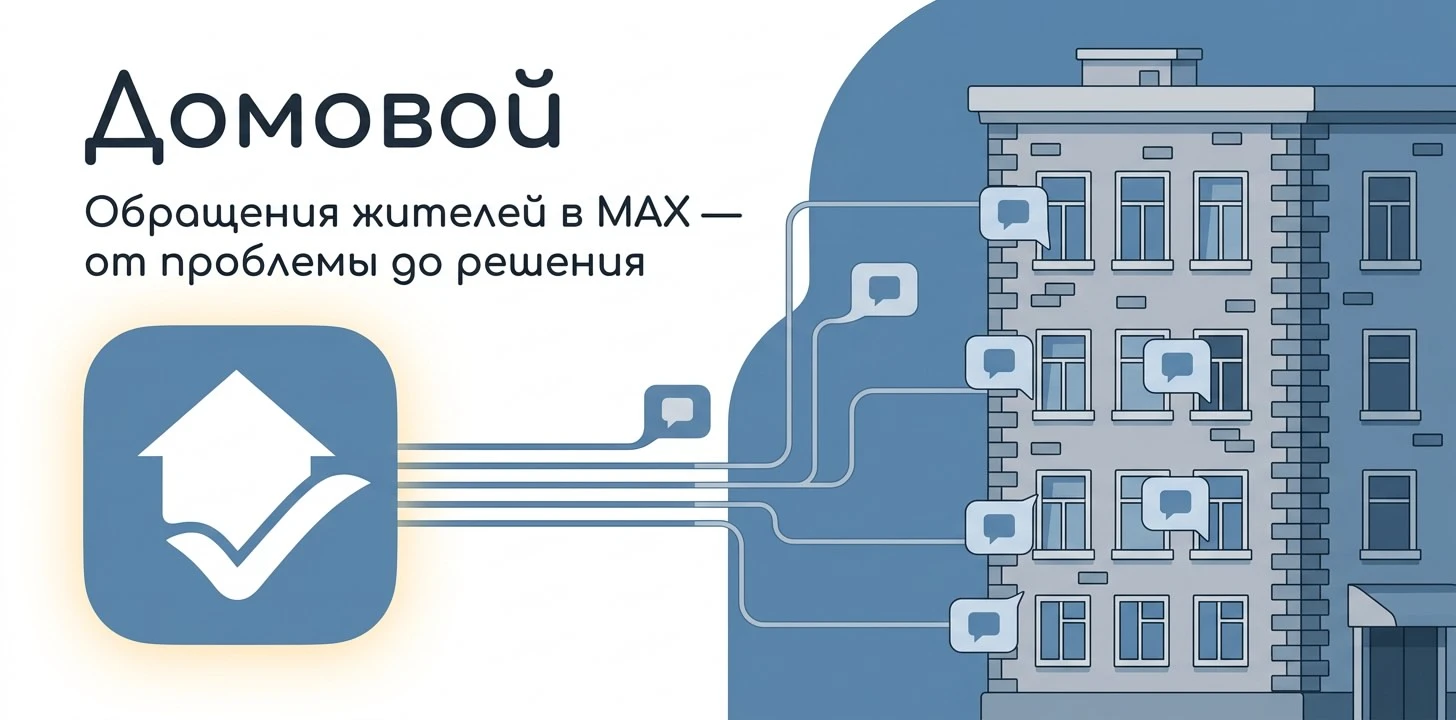
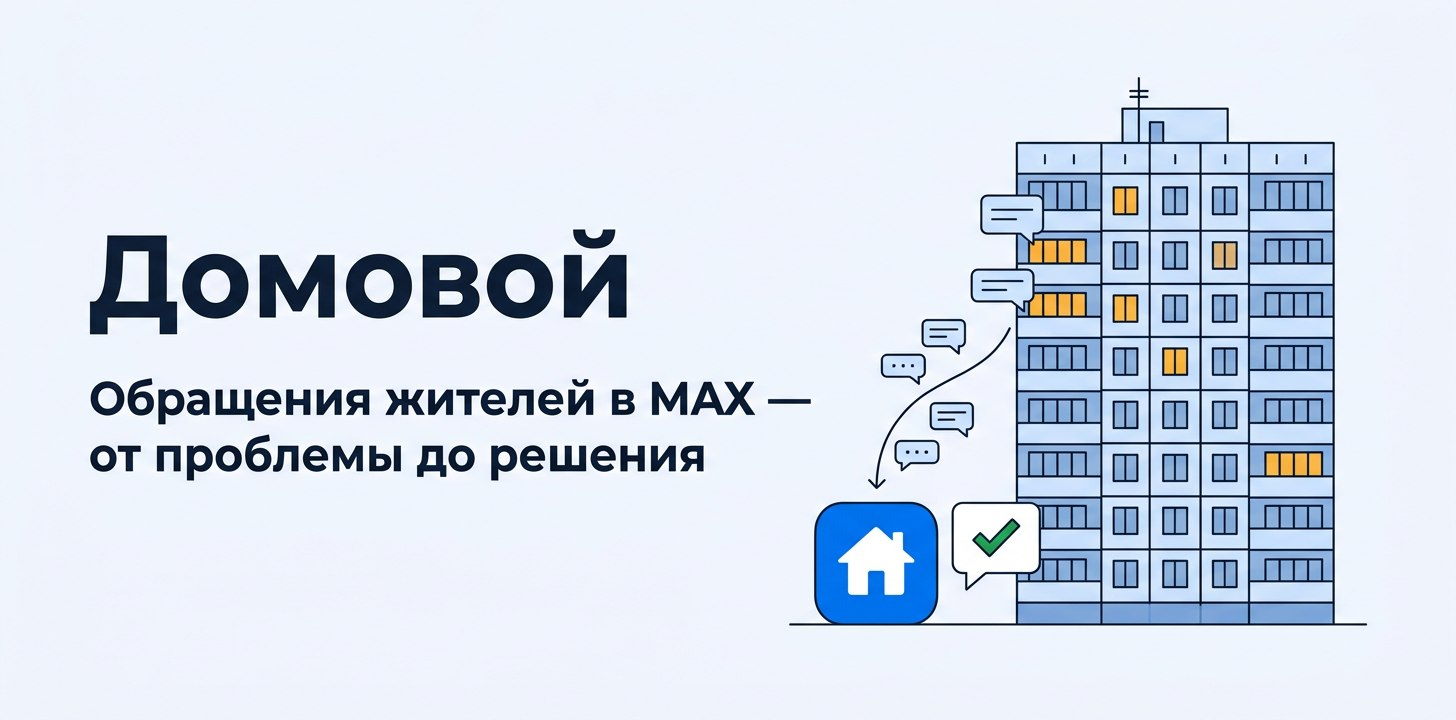
Подготовка к сдаче: актуальные README, OpenAPI, DATA-API и Docker
- README: вход через ЕСИА, новый сценарий бота, ESIA_PASSWORD, новые обложки
- openapi.json перегенерирован из кода, DATA-API.yaml: house_id прода и проверки входа
- docker-compose: убран общий тег образа, из-за него падала сборка без кэша
- ESIA_PASSWORD без значения по умолчанию, удалён отладочный clear_db.py
- презентация: источники на последнем слайде, правки слайдов 10, 13, 19

diff --git a/presentation/10-ai.html b/presentation/10-ai.html
@@ -49,7 +49,7 @@ section{flex:none;transform-origin:center center}</style></head>
 <p style="font-size:30px; font-weight:700">Что ещё делает ИИ</p>
 <p style="display:flex; align-items:center; gap:14px; font-size:26px; line-height:1.3"><svg viewBox="0 0 24 24" fill="none" stroke="#006bf1" stroke-width="3" stroke-linecap="round" stroke-linejoin="round" style="width:26px;height:26px;flex:none"><path d="M5 12.5l4.5 4.5L19 7.5"/></svg>Отсеивает бессвязные сообщения</p>
 <p style="display:flex; align-items:center; gap:14px; font-size:26px; line-height:1.3"><svg viewBox="0 0 24 24" fill="none" stroke="#006bf1" stroke-width="3" stroke-linecap="round" stroke-linejoin="round" style="width:26px;height:26px;flex:none"><path d="M5 12.5l4.5 4.5L19 7.5"/></svg>Понимает ответ УК и меняет статус</p>
-<p style="display:flex; align-items:center; gap:14px; font-size:26px; line-height:1.3"><svg viewBox="0 0 24 24" fill="none" stroke="#006bf1" stroke-width="3" stroke-linecap="round" stroke-linejoin="round" style="width:26px;height:26px;flex:none"><path d="M5 12.5l4.5 4.5L19 7.5"/></svg>Сверяет уточнение жителя с вопросом УК</p>
+<p style="display:flex; align-items:center; gap:14px; font-size:26px; line-height:1.3"><svg viewBox="0 0 24 24" fill="none" stroke="#006bf1" stroke-width="3" stroke-linecap="round" stroke-linejoin="round" style="width:26px;height:26px;flex:none"><path d="M5 12.5l4.5 4.5L19 7.5"/></svg>Даёт обращению короткое понятное название</p>
 </div>
 </div>
 <p style="position:absolute; right:128px; bottom:64px; width:200px; font-size:24px; color:#4a586b; text-align:right">10</p>

diff --git a/presentation/19-risks.html b/presentation/19-risks.html
@@ -16,7 +16,7 @@ section{flex:none;transform-origin:center center}</style></head>
   <path d="m21.73 18-8-14a2 2 0 0 0-3.48 0l-8 14A2 2 0 0 0 4 21h16a2 2 0 0 0 1.73-3" />
   <path d="M12 9v4" />
   <path d="M12 17h.01" />
-</svg></div><p style="flex:1; font-size:24px; font-weight:700; line-height:1.3">ИИ ошибётся с ответственным или сроком</p><p style="flex:1.3; font-size:24px; line-height:1.3; color:#4a586b">Результат виден жителю сразу, УК получает исходный текст, срок задан правилом</p></div>
+</svg></div><p style="flex:1; font-size:24px; font-weight:700; line-height:1.3">ИИ ошибётся с ответственным или сроком</p><p style="flex:1.3; font-size:24px; line-height:1.3; color:#4a586b">Качественные промпты и настройка моделей; результат виден жителю сразу, срок задан правилом</p></div>
 <div style="display:flex; align-items:center; gap:24px; background:#ffffff; border-radius:18px; padding:14px 24px; border:1px solid #dce3ec"><div style="width:44px; height:44px; flex:none; border-radius:12px; background:#e2eeff; display:flex; align-items:center; justify-content:center"><svg viewBox="0 0 24 24" fill="none" stroke="#006bf1" stroke-width="2" stroke-linecap="round" stroke-linejoin="round" style="width:24px;height:24px;flex:none">
   <rect width="18" height="11" x="3" y="11" rx="2" ry="2" />
   <path d="M7 11V7a5 5 0 0 1 10 0v4" />

diff --git a/presentation/20-closing.html b/presentation/20-closing.html
@@ -25,6 +25,7 @@ section{flex:none;transform-origin:center center}</style></head>
 <p style="font-size:40px; font-weight:700; color:#006bf1; text-decoration:underline"><a href="https://max.ru/t633_hakaton_max_bot">max.ru/t633_hakaton_max_bot</a></p>
 </div>
 </div>
+<p style="max-width:1500px; font-size:24px; line-height:1.4; color:#a6c1ea">Источники: кейс «Умный город» хакатона MAX; ПП РФ от 26.01.2026 № 40, Минстрой России; Росстат — жилищный фонд РФ, 2024; вебинары «Умный город» и «Цифровизация государства».</p>
 </div>
 <aside>Итог: один сценарий от проблемы до результата, работающий в MAX уже сейчас. Мини-приложение: domovoy.stirkk.ru, код: github.com/semenogka/umniy_dom_max. Источники: кейс «Умный город» хакатона MAX; ПП РФ от 26.01.2026 № 40, Минстрой России; Росстат — жилищный фонд РФ, 2024; вебинары «Умный город» и «Цифровизация государства». Спасибо, готовы ответить на вопросы.</aside>
 </section>

diff --git a/presentation/13-data.html b/presentation/13-data.html
@@ -46,9 +46,8 @@ section{flex:none;transform-origin:center center}</style></head>
 <p style="font-size:24px; font-weight:700; letter-spacing:2px; text-transform:uppercase; color:#0047af">Следующий шаг</p>
 <h3 style="font-size:40px; font-weight:700; line-height:1.2">Реальные источники</h3>
 <ul style="font-size:24px; line-height:1.4; color:#192a3f">
-<li>ГИС ЖКХ — актуальная УК дома и её контакты</li>
-<li>Реестр жилищного фонда ГИС ЖКХ — выгрузка домов автоматически</li>
-<li>Госуслуги (ЕСИА) — настоящий вход жителя</li>
+<li>Интеграция актуальных УК домов и их контактов из реестра жилищного фонда ГИС ЖКХ</li>
+<li>Авторизация пользователя через Госуслуги</li>
 <li>Адрес УК из реестра вместо одного тестового</li>
 </ul>
 <div style="flex:1"></div>

diff --git a/backend/src/umniy_dom_max/handlers.py b/backend/src/umniy_dom_max/handlers.py
@@ -57,7 +57,7 @@ async def demo_create_user(data: DemoUserIn, db: DbSession, settings: SettingsDe
             await db.commit()
         return user
 
-    if data.password != settings.esia_password:
+    if not settings.esia_password or data.password != settings.esia_password:
         raise HTTPException(401, "Неверный пароль")
 
     houses = await repository.get_random_houses(db, 2)

diff --git a/backend/src/umniy_dom_max/settings.py b/backend/src/umniy_dom_max/settings.py
@@ -19,7 +19,7 @@ class Settings(BaseSettings):
     gpt_model: str = "auto:fast"
 
     # Пароль экрана «Вход через ЕСИА»: без него /users/demo не регистрирует нового жителя
-    esia_password: str = "13243546"
+    esia_password: str = ""
 
     max_token: str = ""
     max_api_url: str = "https://platform-api2.max.ru"

diff --git a/README.md b/README.md
@@ -1,6 +1,6 @@
 # Домовой
 
-<p align="center"><img src="assets/hero.png" alt="Баннер «Домовой»: логотип-домик, от которого линии тянутся к сообщениям в окнах многоэтажного дома" width="100%"></p>
+<p align="center"><img src="assets/hero.png" alt="Баннер «Домовой»: сообщения из окон панельного дома стекаются к значку Домового с отметкой «решено»" width="100%"></p>
 
 <p align="center">
   Бот и мини-приложение в MAX: житель описывает проблему с домом, а «Домовой» сам находит ответственного, регистрирует обращение и ведёт его до результата.
@@ -24,6 +24,7 @@
 | Бот в MAX | <https://max.ru/t633_hakaton_max_bot> |
 | Мини-приложение | <https://domovoy.stirkk.ru> (открывается внутри MAX) |
 | API | <https://domovoy.stirkk.ru/api>, Swagger — [/api/docs](https://domovoy.stirkk.ru/api/docs) |
+| Презентация | HTML-слайды 1920×1080 в [presentation/](presentation/) |
 
 ## Быстрый старт
 
@@ -31,7 +32,7 @@
 
 ```bash
 cp backend/.env.example backend/.env
-# впишите в backend/.env значения GPT_TOKEN, MAX_TOKEN и MAIL_PASSWORD
+# впишите в backend/.env значения GPT_TOKEN, MAX_TOKEN, MAIL_PASSWORD и ESIA_PASSWORD
 docker compose up --build
 ```
 
@@ -41,21 +42,21 @@ docker compose up --build
 - <http://localhost:8000/docs> — Swagger API.
 
 > [!IMPORTANT]
-> Рабочие значения токенов и пароля почты указаны на первом слайде презентации. В репозитории секретов нет.
+> Рабочие значения токенов, пароля почты и пароля входа через ЕСИА указаны на первом слайде презентации. В репозитории секретов нет. Токены в истории git тестовые и недействительные.
 
 ## Основной сценарий
 
-Житель открывает бота в MAX и нажимает «Начать». Бот регистрирует его и привязывает к дому. Дальше всё происходит в мини-приложении:
+1. Житель открывает бота в MAX и нажимает «Начать». Бот присылает приветствие и две кнопки: «Открыть Домового» и «Мои обращения».
+2. Кнопка «Открыть Домового» запускает мини-приложение. При первом входе оно показывает демо-экран «Вход через ЕСИА». После ввода пароля житель зарегистрирован и привязан к дому, а аватар подтягивается из профиля MAX.
+3. Житель видит общий чат своего дома, список своих обращений и сведения о доме с картой.
+4. Нажимает «Новое обращение», выбирает тему, описывает проблему и при желании прикладывает фото.
+5. LLM классифицирует текст. В чате обращения сразу появляется ответ «Домового»: тип проблемы, ответственный, срок и план действий.
+6. Письмо с обращением и фото уходит в управляющую компанию.
+7. УК отвечает на письмо. «Домовой» проверяет ящик раз в 10 секунд, LLM читает ответ и ставит статус: «Проверено» или «Дополните».
+8. Житель видит новый статус в чате обращения и получает сообщение от бота.
+9. Если УК просит подробности, житель дописывает их в тот же чат, и дополнение тоже уходит письмом.
 
-1. Житель видит общий чат своего дома и список своих обращений.
-2. Нажимает «Новое обращение», выбирает тему и описывает проблему.
-3. LLM классифицирует текст. В чате обращения сразу появляется ответ «Домового»: тип проблемы, ответственный, срок и план действий.
-4. Письмо с обращением и фото уходит в управляющую компанию.
-5. УК отвечает на письмо. «Домовой» проверяет ящик раз в 10 секунд, LLM читает ответ и ставит статус: «Проверено» или «Дополните».
-6. Житель видит новый статус в чате обращения и получает сообщение от бота.
-7. Если УК просит подробности, житель дописывает их в тот же чат, и дополнение тоже уходит письмом.
-
-Статусы: `in_progress` — «В работе», `dop` — «Дополните», `checked` — «Проверено», `close` — «Закрыто».
+Статусы: `in_progress` — «В работе», `dop` — «Дополните», `checked` — «Проверено», `close` — «Закрыто». «Закрыто» ставится только запросом к API, в интерфейсе такой кнопки нет. Кнопка «Мои обращения» в боте показывает все обращения, кроме закрытых.
 
 ## Архитектура
 
@@ -75,13 +76,13 @@ flowchart LR
 
 | Компонент | Что делает | Где |
 | --- | --- | --- |
-| `bot` | Регистрирует жителя по событию `bot_started`, по кнопке «Мои обращения» присылает список | [backend/src/umniy_dom_max/cmd/bot.py](backend/src/umniy_dom_max/cmd/bot.py) |
-| `api` | REST и WebSocket для мини-приложения, классификация через LLM, отправка писем, опрос почтового ящика | [backend/](backend/README.md) |
-| `frontend` | Мини-приложение: чат дома, обращения, форма нового обращения | [frontend/](frontend/README.md) |
+| `bot` | Отвечает на «Начать» приветствием и кнопкой запуска мини-приложения, по кнопке «Мои обращения» присылает список | [backend/src/umniy_dom_max/cmd/bot.py](backend/src/umniy_dom_max/cmd/bot.py) |
+| `api` | REST и WebSocket для мини-приложения, вход через демо-ЕСИА, классификация через LLM, отправка писем, опрос почтового ящика | [backend/](backend/README.md) |
+| `frontend` | Мини-приложение: вход, чат дома, обращения, форма нового обращения, сведения о доме | [frontend/](frontend/README.md) |
 | `postgres` | Пользователи, дома, обращения, сообщения, вложения | образ `postgres:17-alpine` |
 | `seed` | Одноразово заполняет пустую базу тестовыми данными и завершается | [backend/seed/data.json](backend/seed/data.json) |
 
-Бот и API — два процесса одного Python-пакета. Они работают с одной базой напрямую, без HTTP между собой.
+Бот и API — два процесса одного Python-пакета. Они работают с одной базой напрямую, без HTTP между собой. Регистрирует жителей только API, бот лишь ведёт в мини-приложение.
 
 ## Окружение
 
@@ -99,9 +100,10 @@ flowchart LR
 
 | Переменная | Обязательна | Назначение |
 | --- | --- | --- |
-| `GPT_TOKEN` | да | ключ LLM; без него API не стартует |
+| `GPT_TOKEN` | да | ключ LLM; без него не стартуют ни API, ни бот |
 | `MAX_TOKEN` | для бота | токен бота MAX; без него контейнер `bot` падает и перезапускается |
 | `MAIL_PASSWORD` | для создания обращений | пароль ящика, с которого уходят письма в УК |
+| `ESIA_PASSWORD` | для регистрации | пароль демо-экрана «Вход через ЕСИА»; без него новые жители не регистрируются |
 | `MAIL_HOST`, `MAIL_USER` | нет | почтовый сервер и ящик, по умолчанию `mail.domovoy.stirkk.ru` |
 | `MAIL_TO` | нет | адрес УК, куда уходят обращения |
 | `UK_AUTOREPLY` | нет | демо: `true` — письма уходят в свой ящик, за УК через 5–10 с отвечает LLM |
@@ -111,7 +113,7 @@ flowchart LR
 | `DEBUG` | нет | `true` включает Swagger и подробные ошибки 500, по умолчанию `true` |
 | `ENABLE_CORS`, `HOST`, `PORT`, `ROOT_PATH`, `LOG_LEVEL` | нет | настройки HTTP-сервера |
 
-Фронтенд настраивается аргументами сборки: `VITE_API_URL` — адрес API, `VITE_DEMO_USER_ID` — пользователь для запуска вне MAX. Compose задаёт их сам.
+Фронтенд настраивается аргументами сборки: `VITE_API_URL` — адрес API, `VITE_DEMO_USER_ID` и `VITE_DEMO_CHAT_ID` — пользователь и чат для запуска вне MAX. Compose задаёт `VITE_API_URL` и `VITE_DEMO_USER_ID`.
 
 ### Зависимости
 
@@ -132,13 +134,14 @@ flowchart LR
 
 ## Данные
 
-Реальных интеграций с реестрами домов и ГИС ЖКХ в MVP нет. Все данные тестовые:
+Реальных интеграций с Госуслугами, реестрами домов и ГИС ЖКХ в MVP нет. Все данные тестовые:
 
-- при регистрации в боте житель привязывается к двум **случайным** домам из базы;
-- адреса домов и демо-обращение смоделированы и лежат в [backend/seed/data.json](backend/seed/data.json);
-- письма уходят на один тестовый адрес УК, он задан в [handlers.py](backend/src/umniy_dom_max/handlers.py).
+- Вход через ЕСИА — демо-экран с одним общим паролем из `ESIA_PASSWORD`.
+- При первом входе житель привязывается к двум **случайным** домам из базы.
+- Адреса домов и демо-обращение смоделированы и лежат в [backend/seed/data.json](backend/seed/data.json).
+- Письма уходят на один тестовый адрес УК из `MAIL_TO`.
 
-Таблицы создаются при старте API. Фото из обращений хранятся в базе как base64-строки и прикладываются к письму.
+Таблицы создаются при старте API. Фото из обращений сжимаются, хранятся в базе как base64-строки и прикладываются к письму.
 
 ### Тестовые данные
 
@@ -148,10 +151,10 @@ flowchart LR
 | --- | --- |
 | Демо-житель | `id = 1`, «Демо-житель» |
 | Его дома | «г. Казань, ул. Баумана, д. 10» (`id = 1`), «г. Казань, ул. Пушкина, д. 25» (`id = 2`) |
-| Обращение | `id = 1`, не горит свет в подъезде, статус «В работе» |
-| Ещё дома | три адреса без жителей, для регистрации новых пользователей бота |
+| Обращение | `id = 1`, «Не горит свет в подъезде», статус «В работе» |
+| Ещё дома | три адреса без жителей, для регистрации новых пользователей |
 
-Авторизации в API нет: пользователь определяется по `user_id` из MAX. Локально фронтенд работает от имени `id = 1`.
+Авторизации в API нет: пользователь определяется по `user_id` из MAX. Локально фронтенд работает от имени `id = 1`. Этот житель уже есть в базе, поэтому экран входа через ЕСИА локально не появляется.
 
 ## Сценарий проверки
 
@@ -172,7 +175,7 @@ flowchart LR
 
 5. В меню нажмите «Новое обращение», выберите тему, опишите проблему, например «В подвале течёт труба», и нажмите «Создать обращение». Для этого нужны `GPT_TOKEN` и `MAIL_PASSWORD`.
 
-Сценарий в MAX: откройте бота, нажмите «Начать», затем «Мои обращения», потом откройте мини-приложение.
+Сценарий в MAX: откройте бота и нажмите «Начать», затем «Открыть Домового». Новый житель сначала увидит экран «Вход через ЕСИА».
 
 ### Ожидаемое поведение
 
@@ -180,17 +183,19 @@ flowchart LR
 | --- | --- |
 | `GET /users/1/houses` | `200`, два дома демо-жителя |
 | `GET /users/999` | `404`, `{"detail": "Not found"}` |
+| `POST /users/demo` для нового жителя с неверным паролем | `401`, `{"detail": "Неверный пароль"}` |
+| `POST /users/demo` для нового жителя с паролем из `ESIA_PASSWORD` | `200`, житель с двумя случайными домами |
 | `POST /appeals/create` с текстом о проблеме в доме | `200`, обращение с классификацией и двумя сообщениями: жителя и бота |
 | `POST /appeals/create` с текстом не о доме | `403`, `{"detail": "Appeal is bad"}` |
 | `POST /appeals/create` с чужим `house_id` | `403`, `{"detail": "Address not linked to user"}` |
 | сообщение в закрытое обращение | сообщение сохраняется, бот отвечает «Данное обращение уже закрыто» |
-| `/start` в боте | ответ «Вы успешно зарегистрировались…» и кнопка «Мои обращения» |
+| «Начать» в боте | приветствие и кнопки «Открыть Домового» и «Мои обращения» |
 
 ## Проверка API
 
 API описан в [openapi.json](openapi.json) (OpenAPI 3.1). Обязательные проверки с параметрами, ролями, кодами ответа и обязательными полями лежат в [DATA-API.yaml](DATA-API.yaml).
 
-Проверки рассчитаны на прод `https://domovoy.stirkk.ru/api`. Тестовый житель там — `user_id = 1` с домом `house_id = 1` и обращением `appeal_id = 3`. Авторизации нет, поэтому логины и пароли не нужны.
+Проверки рассчитаны на прод `https://domovoy.stirkk.ru/api`. Тестовый житель там — `user_id = 1` с домом `house_id = 3` и обращением `appeal_id = 3`. Авторизации нет, поэтому логины и пароли не нужны.
 
 ## Остановка и перезапуск
 
@@ -203,8 +208,10 @@ docker compose down -v     # остановить и удалить базу; с
 ## Известные ограничения
 
 - Нет авторизации: API доверяет `user_id`, который присылает клиент.
+- Вход через ЕСИА — демо: один общий пароль, настоящей интеграции с Госуслугами нет.
 - Дома назначаются случайно, интеграции с реестром жильцов нет.
 - Письма УК уходят на один фиксированный адрес.
+- Статус «Закрыто» ставится только запросом к API.
 - Без `MAIL_PASSWORD` создание обращения завершается ошибкой `500`: письмо отправляется до сохранения.
 - Один `MAX_TOKEN` — один бот. Локальный бот с продовым токеном отнимет события у продового.
 - WebSocket-комнаты хранятся в памяти одного процесса API, поэтому горизонтально масштабировать API нельзя.

diff --git a/backend/README.md b/backend/README.md
@@ -1,8 +1,8 @@
 # Домовой — backend
 
-<p align="center"><img src="assets/hero.png" alt="Баннер backend: карточка обращения проходит через узел классификации и расходится по потокам к базе данных и письму" width="100%"></p>
+<p align="center"><img src="assets/hero.png" alt="Баннер «Домовой — backend»: сообщение жителя проходит через сортировщик и расходится к категории, письму в УК и базе данных" width="100%"></p>
 
-API мини-приложения и бот MAX в одном Python-пакете. API принимает обращения жителей, классифицирует их через LLM, отправляет письма в управляющую компанию и рассылает обновления по WebSocket. Бот регистрирует жителей и показывает их обращения прямо в чате.
+API мини-приложения и бот MAX в одном Python-пакете. API регистрирует жителей через демо-вход ЕСИА, принимает обращения, классифицирует их через LLM, отправляет письма в управляющую компанию и рассылает обновления по WebSocket. Бот открывает мини-приложение и показывает обращения жителя прямо в чате.
 
 Общее описание проекта и запуск всех компонентов разом описаны в [корневом README](../README.md).
 
@@ -17,7 +17,7 @@ uv run seed seed/data.json    # тестовые дома, демо-житель
 uv run api                    # http://localhost:8000/docs
 ```
 
-Бот запускается отдельным процессом:
+Бот запускается отдельным процессом, ему нужны `MAX_TOKEN` и `GPT_TOKEN`:
 
 ```bash
 uv run bot
@@ -30,25 +30,22 @@ uv run bot
 | Команда | Что делает |
 | --- | --- |
 | `api` | FastAPI на `HOST:PORT`, при старте создаёт таблицы и запускает опрос почтового ящика |
-| `bot` | long polling MAX Bot API: регистрация по `bot_started`, кнопка «Мои обращения» |
+| `bot` | long polling MAX Bot API: на `bot_started` — приветствие с кнопкой «Открыть Домового», по кнопке «Мои обращения» — список незакрытых обращений |
 | `seed [путь]` | заполняет базу из JSON, только если в ней нет домов; по умолчанию `/seed/data.json` |
-| `clear-db` | удаляет схему `public` и создаёт таблицы заново |
-
-> [!CAUTION]
-> `clear-db` стирает все данные в базе из `DATABASE_URL` без подтверждения.
 
 ## Устройство
 
 ```text
 src/umniy_dom_max/
-  cmd/              — точки входа: api, bot, seed, clear_db
+  cmd/              — точки входа: api, bot, seed
+  attachments.py    — проверка и сжатие фото
   db/
     models.py       — SQLAlchemy-модели
     repository.py   — все запросы к базе
     database.py     — движок, сессии, создание таблиц
   handlers.py       — REST- и WebSocket-эндпоинты
   schemas.py        — Pydantic-схемы запросов и ответов
-  llm.py, prompts.py — агенты Pydantic AI: классификация обращения и ответа УК
+  llm.py, prompts.py — агенты Pydantic AI: классификация обращения, ответа УК и демо-ответ за УК
   mail.py           — отправка по SMTP и чтение по IMAP
   mail_monitoring.py — фоновая задача: раз в 10 секунд читает ответы УК
   html.py           — HTML-шаблоны писем
@@ -64,15 +61,19 @@ src/umniy_dom_max/
 
 | Поле | Значения |
 | --- | --- |
+| `result` | `OK` — это обращение, `N` — нет |
+| `title` | короткое название из 2–4 слов, например «Не работает лифт» |
 | `problem_type` | освещение подъезда, ЖКХ, дороги, мусор, благоустройство, водоснабжение, отопление, лифт, другая |
 | `urgency` | низкий, средний, высокий, критичный |
 | `responsible_org` | управляющая компания, администрация города, водоканал, электросети, дорожная служба, региональный оператор ТКО, другая |
 | `deadline_days`, `deadline_text` | срок в днях и его текстовое описание |
 | `action_plan` | что сделает исполнитель |
 
-Если тип определён как «другая», обращение не создаётся и API отвечает `403`. Дополнения к обращению проходят ту же проверку.
+Если модель вернула `result = N`, обращение не создаётся и API отвечает `403`. Дополнения к обращению LLM сейчас не проверяет: проверка в [handlers.py](src/umniy_dom_max/handlers.py) закомментирована, и каждое дополнение уходит письмом в УК.
 
-Второй агент читает ответы УК из почты и решает, какой статус поставить: `dop` или `checked`. Обращение находится по теме письма.
+Второй агент читает ответы УК из почты и решает, какой статус поставить: `dop` или `checked`. Письмо не про статус он помечает `N`, и оно пропускается. Обращение находится по теме письма.
+
+Третий агент работает только при `UK_AUTOREPLY=true`. Он отвечает на письмо с обращением от имени УК через 5–10 секунд, чтобы демо прошло без живой управляющей компании. Статус `close` ни один агент не ставит: его задают запросом `PATCH /appeals/{appeal_id}/update`.
 
 ## API
 
@@ -80,7 +81,7 @@ src/umniy_dom_max/
 
 | Метод и путь | Что делает |
 | --- | --- |
-| `POST /users/demo` | создать демо-пользователя со случайными домами |
+| `POST /users/demo` | вход через демо-ЕСИА: вернуть жителя и обновить аватар или зарегистрировать нового со случайными домами, если пароль совпал с `ESIA_PASSWORD`, иначе `401` |
 | `GET /users/{user_id}` | профиль, дома и обращения |
 | `GET /users/{user_id}/houses` | дома пользователя |
 | `GET /users/{user_id}/appeals` | обращения пользователя с сообщениями |
@@ -105,13 +106,14 @@ WebSocket: `/ws/houses/{house_id}?user_id=…` и `/ws/appeals/{appeal_id}?user_
 erDiagram
     users ||--o{ appeals : "автор"
     users }o--o{ houses : "user_houses"
+    houses ||--o{ appeals : "обращения дома"
     houses ||--o{ house_messages : "чат дома"
     appeals ||--o{ appeal_messages : "переписка"
     appeal_messages ||--o{ message_attachments : ""
     house_messages ||--o{ message_attachments : ""
 ```
 
-Пользователь с `id = 0` — это бот. Он создаётся при старте API, и от его имени пишутся системные сообщения. Обращение связано с домом через адрес `appeal_address`, а не через внешний ключ.
+Пользователь с `id = 0` — это бот. Он создаётся при старте API, и от его имени пишутся системные сообщения. У жителя хранится `avatar_url` из профиля MAX, у обращения — короткое название `title` от LLM.
 
 ## Переменные окружения
 

diff --git a/frontend/README.md b/frontend/README.md
@@ -1,8 +1,8 @@
 # Домовой — frontend
 
-<p align="center"><img src="assets/hero.png" alt="Баннер frontend: смартфон с чатом мини-приложения, пузырями сообщений и статусом" width="100%"></p>
+<p align="center"><img src="assets/hero.png" alt="Баннер «Домовой — frontend»: смартфон с чатом мини-приложения, фото в сообщении, статусом и карточками карты дома" width="100%"></p>
 
-Мини-приложение «Домового» для MAX. Житель переписывается в общем чате дома, создаёт обращения и следит за их статусом. Новые сообщения и смена статуса приходят по WebSocket без перезагрузки.
+Мини-приложение «Домового» для MAX. Житель входит через демо-экран ЕСИА, переписывается в общем чате дома, создаёт обращения с фото и следит за их статусом. Новые сообщения и смена статуса приходят по WebSocket без перезагрузки.
 
 Сделано на React, Vite и Bun. Линтер — Biome, форматтер — Prettier. Общее описание проекта лежит в [корневом README](../README.md).
 
@@ -32,15 +32,27 @@ bun run build
 
 ## Связь с MAX
 
-Страница подключает MAX Bridge (`https://st.max.ru/js/max-web-app.js`). Пользователь берётся из `window.WebApp.initDataUnsafe.user`, это делает [src/max/webApp.ts](src/max/webApp.ts).
+Страница подключает MAX Bridge (`https://st.max.ru/js/max-web-app.js`) и после старта вызывает `window.WebApp.ready()`: без этого iOS-клиент MAX не убирает свой загрузчик. Id, имя и фото пользователя, а также id чата берутся из `window.WebApp.initDataUnsafe`, это делает [src/max/webApp.ts](src/max/webApp.ts).
 
-Вне MAX объекта `WebApp` нет. Тогда пользователь определяется так:
+Вне MAX объекта `WebApp` нет. Тогда пользователь и чат определяются так:
 
 | Режим | Пользователь |
 | --- | --- |
-| `bun run dev` | всегда `id = 1` |
-| сборка с `VITE_DEMO_USER_ID` | значение переменной; так работает локальный Docker |
+| `bun run dev` | всегда `id = 1`, чат тоже `1` |
+| сборка с `VITE_DEMO_USER_ID` и `VITE_DEMO_CHAT_ID` | значения переменных; так работает локальный Docker |
 | прод без MAX | нет пользователя, данные не загружаются |
+
+## Вход через ЕСИА
+
+При запуске приложение вызывает `POST /users/demo` без пароля. Если житель уже есть в базе, API возвращает его и обновляет аватар из MAX.
+
+Для нового жителя API отвечает `401`, и приложение показывает демо-экран «Вход через ЕСИА» ([EsiaAuth](src/pages/Chat/components/EsiaAuth/index.tsx)). Житель вводит пароль, API сверяет его с `ESIA_PASSWORD` и регистрирует жителя. Неверный пароль показывается ошибкой под полем.
+
+Для этого экрана `index.html` подключает шрифт Lato из Google Fonts.
+
+## Фото во вложениях
+
+К сообщению можно приложить до 10 фото: jpeg, png, webp, heic/heif, bmp, tiff. Браузер сжимает каждое до 1200 px по длинной стороне, JPEG с качеством 0.45, и отклоняет файлы больше 10 МБ после сжатия. Бэкенд проверяет тот же лимит, а nginx пропускает тело запроса до 10 МБ. Настройки лежат в [MessageInput.config.ts](src/components/MessageInput/MessageInput.config.ts).
 
 ## Переменные окружения
 
@@ -48,6 +60,7 @@ bun run build
 | --- | --- | --- | --- |
 | `VITE_API_URL` | базовый адрес API и WebSocket | `/api` | `http://localhost:8000` |
 | `VITE_DEMO_USER_ID` | пользователь вне MAX | не задаётся | `1` |
+| `VITE_DEMO_CHAT_ID` | чат MAX вне MAX | не задаётся | не задаётся |
 
 Это переменные сборки: Vite вшивает их в бандл. В Docker они передаются через `build.args`.
 
@@ -55,7 +68,7 @@ bun run build
 
 ```text
 src/
-  pages/Chat/     — единственная страница: чат дома или обращения и боковые листы
+  pages/Chat/     — единственная страница: чат дома или обращения, экран входа, боковые листы и «Мой дом» с картой
   components/     — переиспользуемые UI-компоненты со stories
   store/          — Redux Toolkit: пользователь, дома, обращения, чаты
   api/            — fetch-клиент и WebSocket
